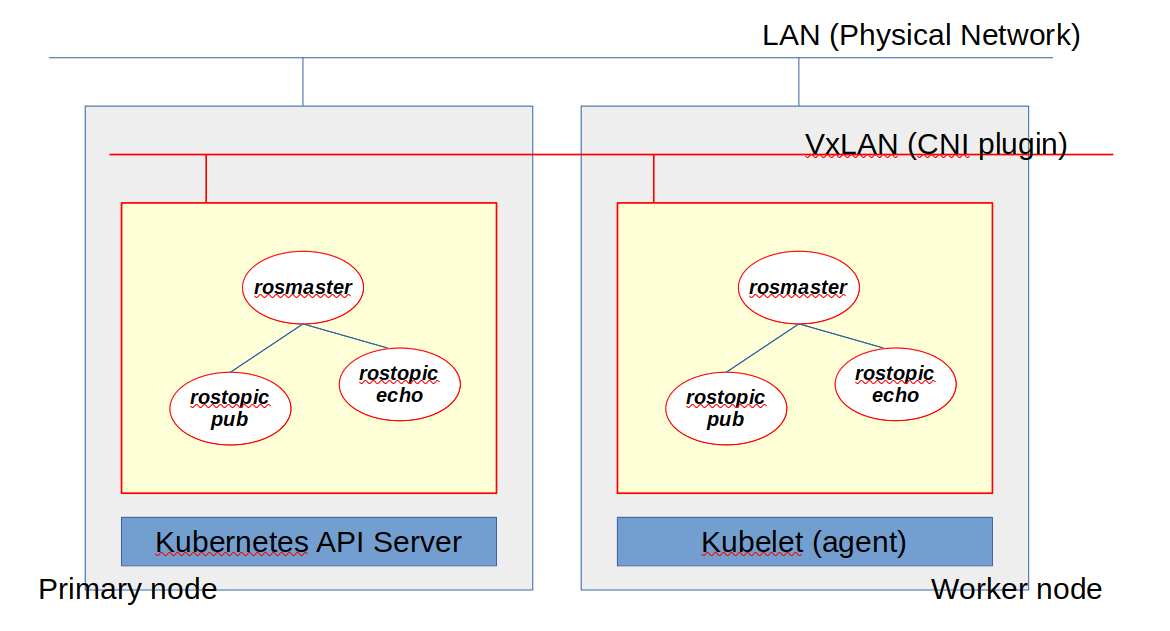
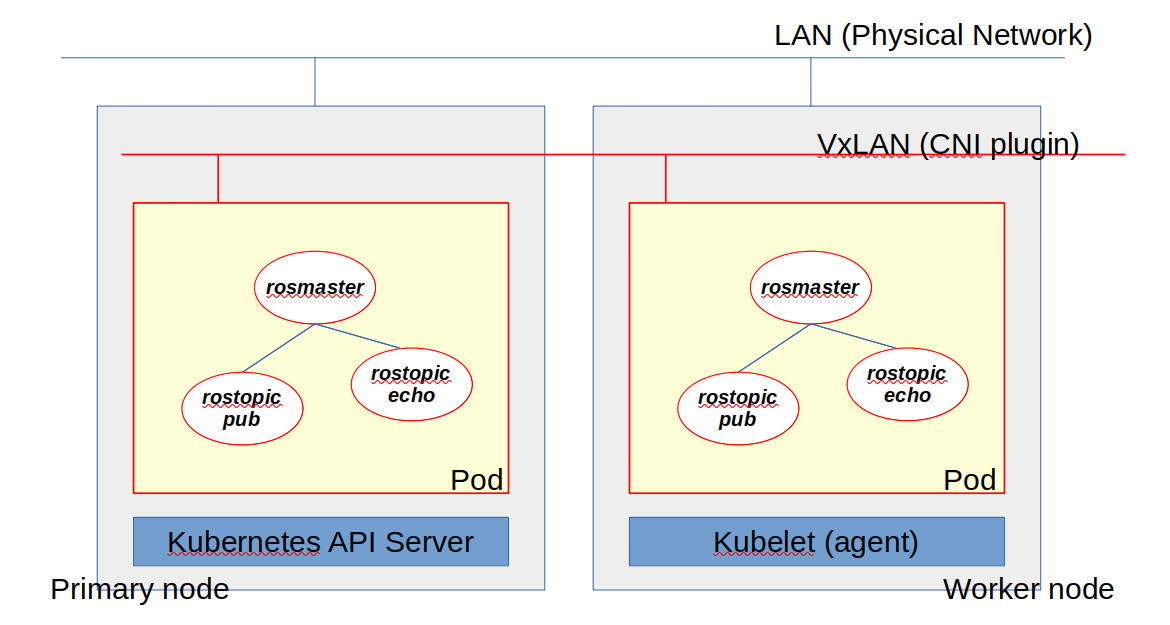
add ROS 1 multi-node deployment using headless service.

Changed region(s): [[0.0308, 0.0304, 0.9538, 0.9728], [0.1846, 0.3952, 0.3385, 0.5472]]

diff --git a/docs/ROS_Deployment_Demonstration.md b/docs/ROS_Deployment_Demonstration.md
@@ -7,7 +7,7 @@ This section provides several example deployments, starting with basic deploymen
 For ROS Noetic, we can use any CNI implementation (Flannel/Weave/Cilium).
 This is because that ROS Noetic network is based on TCP/UDP IP network w/o multicast.
 
-### ROS DaemonSet Deployment via CNI
+### ROS DaemonSet Deployment with CNI
 
 This example deploys all ROS 1 application containers for each cluster node.
 That is said rosmaster(roscore) will be starting on each cluster node and other ROS application container will be connecting each other in the localhost system as following.
@@ -58,29 +58,110 @@ exit
 root@tomoyafujita-HP-Compaq-Elite-8300-SFF:~/ros_k8s# kubectl delete -f ./yaml/ros1-daemonset.yaml
 ```
 
-### ROS Multi-Node Deployment via CNI
+### ROS Multi-Node Deployment with CNI
 
 This example deploys distributed system with ROS, application containers will be deployed corresponding or targeted cluster node.
 In this case, rosmaster will be running on one of the cluster node, and other ROS application container will be connecting to that rosmaster as distributed application.
 
 Accessing rosmaster requires ROS nodes to know the rosmaster IP address to participate to ROS network.
 Most likely user sets the environmental variable before starting the application, but problem here is we do not know what IP address is assigned to rosmater container from kubernetes until it deploys application.
-This actually points out the operation cost for user that we do need to set the IP address in the ``
+Against this problem, it takes advantage of `Headless Service` so that application pods can DNS the hostname based on that service name, whose backend is corresponding application pods.
 
 **see deployment description [ROS Multiple Node Deployment](./../yaml/ros1-multinode.yaml)**
 
-***INSERT PICTURE***
+![ROS noetic Multiple Node Deployment](./../images/ros1_multiple_node.png)
+
+- Add labeling to cluster nodes.
+
+To manage the fleet, here it adds the lable to each node, which also used in the above yaml file.
 
 ```bash
-### Command Here
+### Show labels
+root@tomoyafujita-HP-Compaq-Elite-8300-SFF:~# kubectl get nodes --show-labels
+NAME                                    STATUS   ROLES           AGE    VERSION   LABELS
+tomoyafujita-hp-compaq-elite-8300-sff   Ready    control-plane   118m   v1.25.5   beta.kubernetes.io/arch=amd64,beta.kubernetes.io/os=linux,kubernetes.io/arch=amd64,kubernetes.io/hostname=tomoyafujita-hp-compaq-elite-8300-sff,kubernetes.io/os=linux,node-role.kubernetes.io/control-plane=,node.kubernetes.io/exclude-from-external-load-balancers=
+ubuntu                                  Ready    <none>          116m   v1.25.5   beta.kubernetes.io/arch=arm64,beta.kubernetes.io/os=linux,kubernetes.io/arch=arm64,kubernetes.io/hostname=ubuntu,kubernetes.io/os=linux
+
+### Add labels
+root@tomoyafujita-HP-Compaq-Elite-8300-SFF:~# kubectl label nodes tomoyafujita-hp-compaq-elite-8300-sff nodetype=master
+root@tomoyafujita-HP-Compaq-Elite-8300-SFF:~# kubectl label nodes ubuntu nodetype=worker
+
+### Check labels
+root@tomoyafujita-HP-Compaq-Elite-8300-SFF:~# kubectl get nodes --show-labels
+NAME                                    STATUS   ROLES           AGE    VERSION   LABELS
+tomoyafujita-hp-compaq-elite-8300-sff   Ready    control-plane   126m   v1.25.5   beta.kubernetes.io/arch=amd64,beta.kubernetes.io/os=linux,kubernetes.io/arch=amd64,kubernetes.io/hostname=tomoyafujita-hp-compaq-elite-8300-sff,kubernetes.io/os=linux,node-role.kubernetes.io/control-plane=,node.kubernetes.io/exclude-from-external-load-balancers=,nodetype=master
+ubuntu                                  Ready    <none>          125m   v1.25.5   beta.kubernetes.io/arch=arm64,beta.kubernetes.io/os=linux,kubernetes.io/arch=arm64,kubernetes.io/hostname=ubuntu,kubernetes.io/os=linux,nodetype=worker
 ```
 
-***Explanation about Headless Service***
+- ROS 1 Deployment and Check
 
-### ROS Multi-Node Deployment via Host Network
+```bash
+### Start deployment
+root@tomoyafujita-HP-Compaq-Elite-8300-SFF:~/ros_k8s# kubectl apply -f ./yaml/ros1-multinode.yaml
+deployment.apps/roscore-deployment created
+service/rosmaster created
+deployment.apps/talker-deployment created
+service/ros-talker created
+deployment.apps/listener-deployment created
+service/ros-listener created
 
-This example deploys distributed system with ROS, application containers will be deployed corresponding or targeted cluster node.
-In this case, rosmaster will be running on one of the cluster node, and other ROS application container will be connecting to that rosmaster as distributed application.
+### Check service and pods are running
+root@tomoyafujita-HP-Compaq-Elite-8300-SFF:~# kubectl get pods -o wide
+NAME                                   READY   STATUS    RESTARTS   AGE   IP          NODE                                    NOMINATED NODE   READINESS GATES
+listener-deployment-5db88c77cf-79plx   1/1     Running   0          29m   10.32.0.5   tomoyafujita-hp-compaq-elite-8300-sff   <none>           <none>
+roscore-deployment-5564978d47-bg4sj    1/1     Running   0          29m   10.32.0.4   tomoyafujita-hp-compaq-elite-8300-sff   <none>           <none>
+talker-deployment-b468d7b5-2tf7k       1/1     Running   0          29m   10.44.0.1   ubuntu                                  <none>           <none>
+
+root@tomoyafujita-HP-Compaq-Elite-8300-SFF:~# kubectl get services -o wide
+NAME           TYPE        CLUSTER-IP   EXTERNAL-IP   PORT(S)   AGE    SELECTOR
+kubernetes     ClusterIP   10.96.0.1    <none>        443/TCP   132m   <none>
+ros-listener   ClusterIP   None         <none>        <none>    29m    node=listener
+ros-talker     ClusterIP   None         <none>        <none>    29m    node=talker
+rosmaster      ClusterIP   None         <none>        <none>    29m    node=roscore
+
+### Check logs for each container
+root@tomoyafujita-HP-Compaq-Elite-8300-SFF:~# kubectl logs listener-deployment-5db88c77cf-79plx
+[INFO] [1675841806.376591]: /listener_1_1675840013908I heard hello world 17918
+[INFO] [1675841806.476425]: /listener_1_1675840013908I heard hello world 17919
+[INFO] [1675841806.576383]: /listener_1_1675840013908I heard hello world 17920
+[INFO] [1675841806.676507]: /listener_1_1675840013908I heard hello world 17921
+[INFO] [1675841806.776493]: /listener_1_1675840013908I heard hello world 17922
+
+root@tomoyafujita-HP-Compaq-Elite-8300-SFF:~# kubectl logs talker-deployment-b468d7b5-2tf7k
+[ INFO] [1675841845.265373581]: hello world 18307
+[ INFO] [1675841845.365361230]: hello world 18308
+[ INFO] [1675841845.465356583]: hello world 18309
+[ INFO] [1675841845.565422917]: hello world 18310
+[ INFO] [1675841845.665285753]: hello world 18311
+
+### Login one of container to issue ROS CLI
+root@tomoyafujita-HP-Compaq-Elite-8300-SFF:~# kubectl exec --stdin --tty talker-deployment-b468d7b5-2tf7k -- /bin/bash
+root@talker-deployment-b468d7b5-2tf7k:/# source /opt/ros/$ROS_DISTRO/setup.bash
+root@talker-deployment-b468d7b5-2tf7k:/# rostopic list
+/chatter
+/rosout
+/rosout_agg
+root@talker-deployment-b468d7b5-2tf7k:/# rosnode list
+/listener_1_1675840013908
+/rosout
+/talker
+root@talker-deployment-b468d7b5-2tf7k:/# exit
+exit
+
+### Stop deployment
+root@tomoyafujita-HP-Compaq-Elite-8300-SFF:~/ros_k8s# kubectl delete -f ./yaml/ros1-multinode.yaml
+deployment.apps "roscore-deployment" deleted
+service "rosmaster" deleted
+deployment.apps "talker-deployment" deleted
+service "ros-talker" deleted
+deployment.apps "listener-deployment" deleted
+service "ros-listener" deleted
+```
+
+### ROS Multi-Node Deployment with Host Network
+
+This example is almost same with previous deployment but selecting different node to deploy the pods.
+The main difference that this tutorial has is to bind `Host Network Interface` to the application pods, so that we can use container running on the host system to join the ROS network but Kubernetes cluster network.
 
 ***INSERT PICTURE***
 
@@ -93,4 +174,3 @@ We can access the ROS network via host system using docker container.
 ```bash
 ### Command Here
 ```
-
